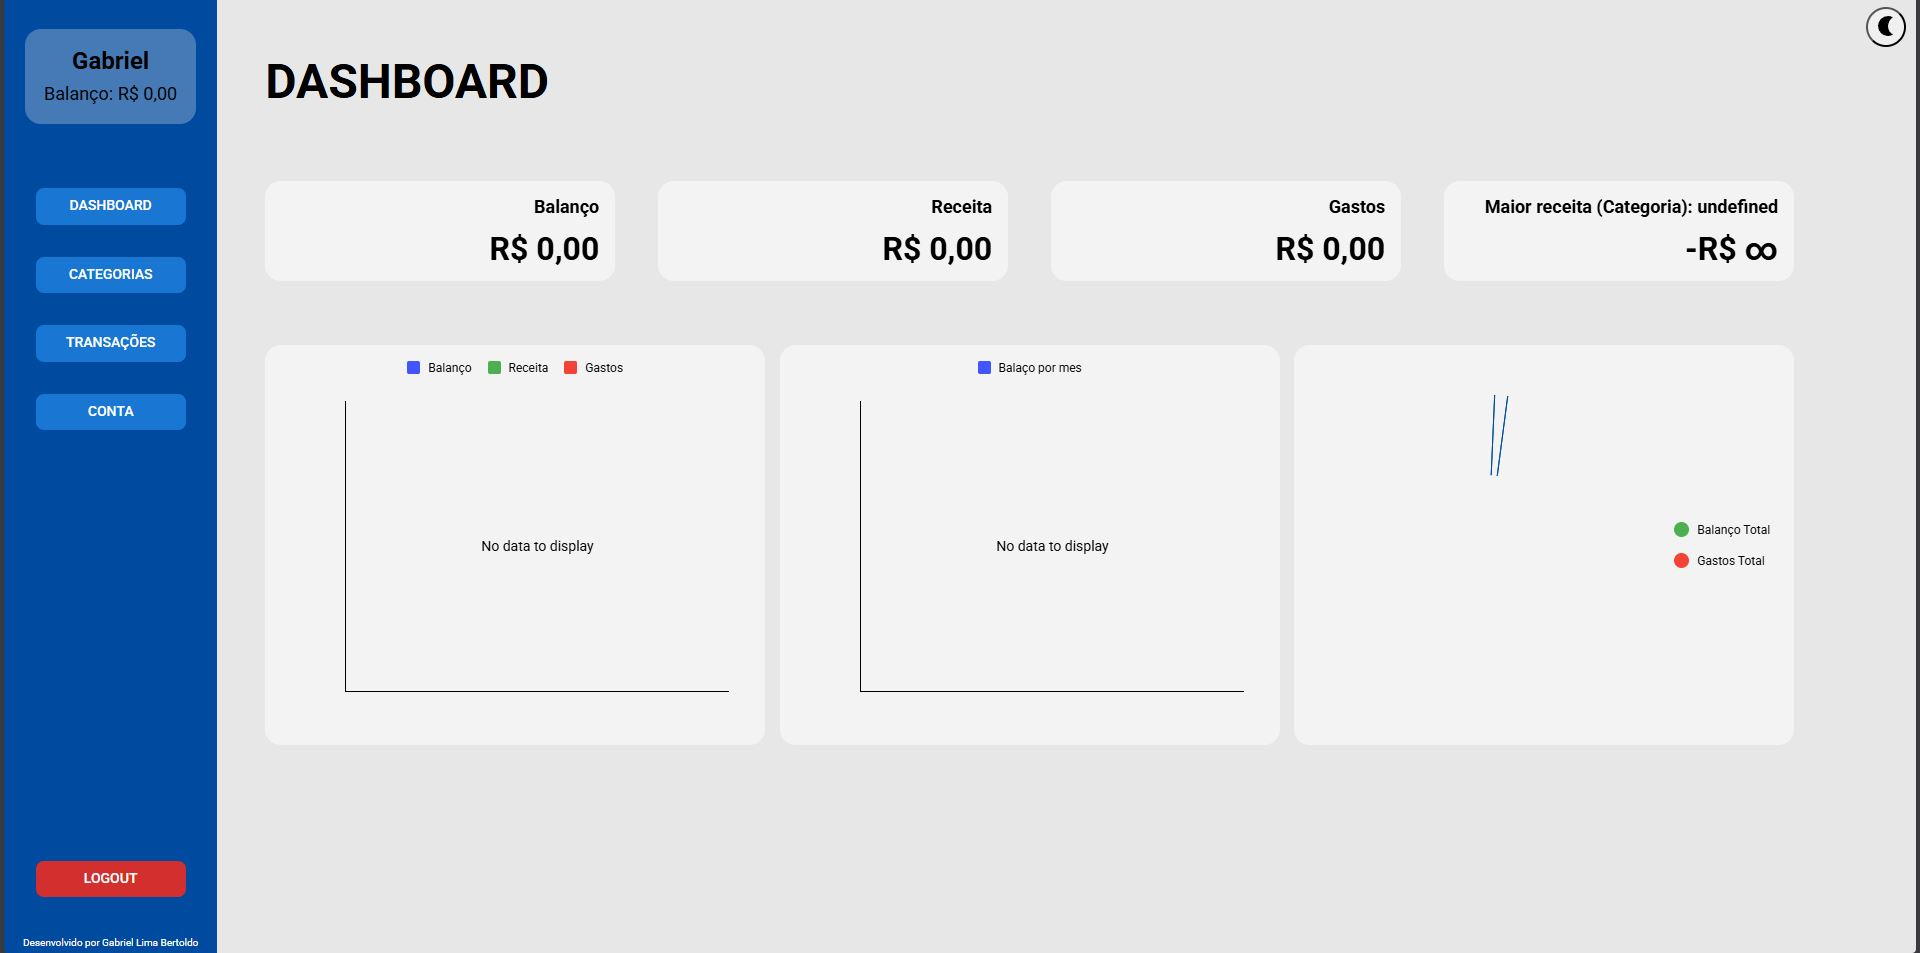
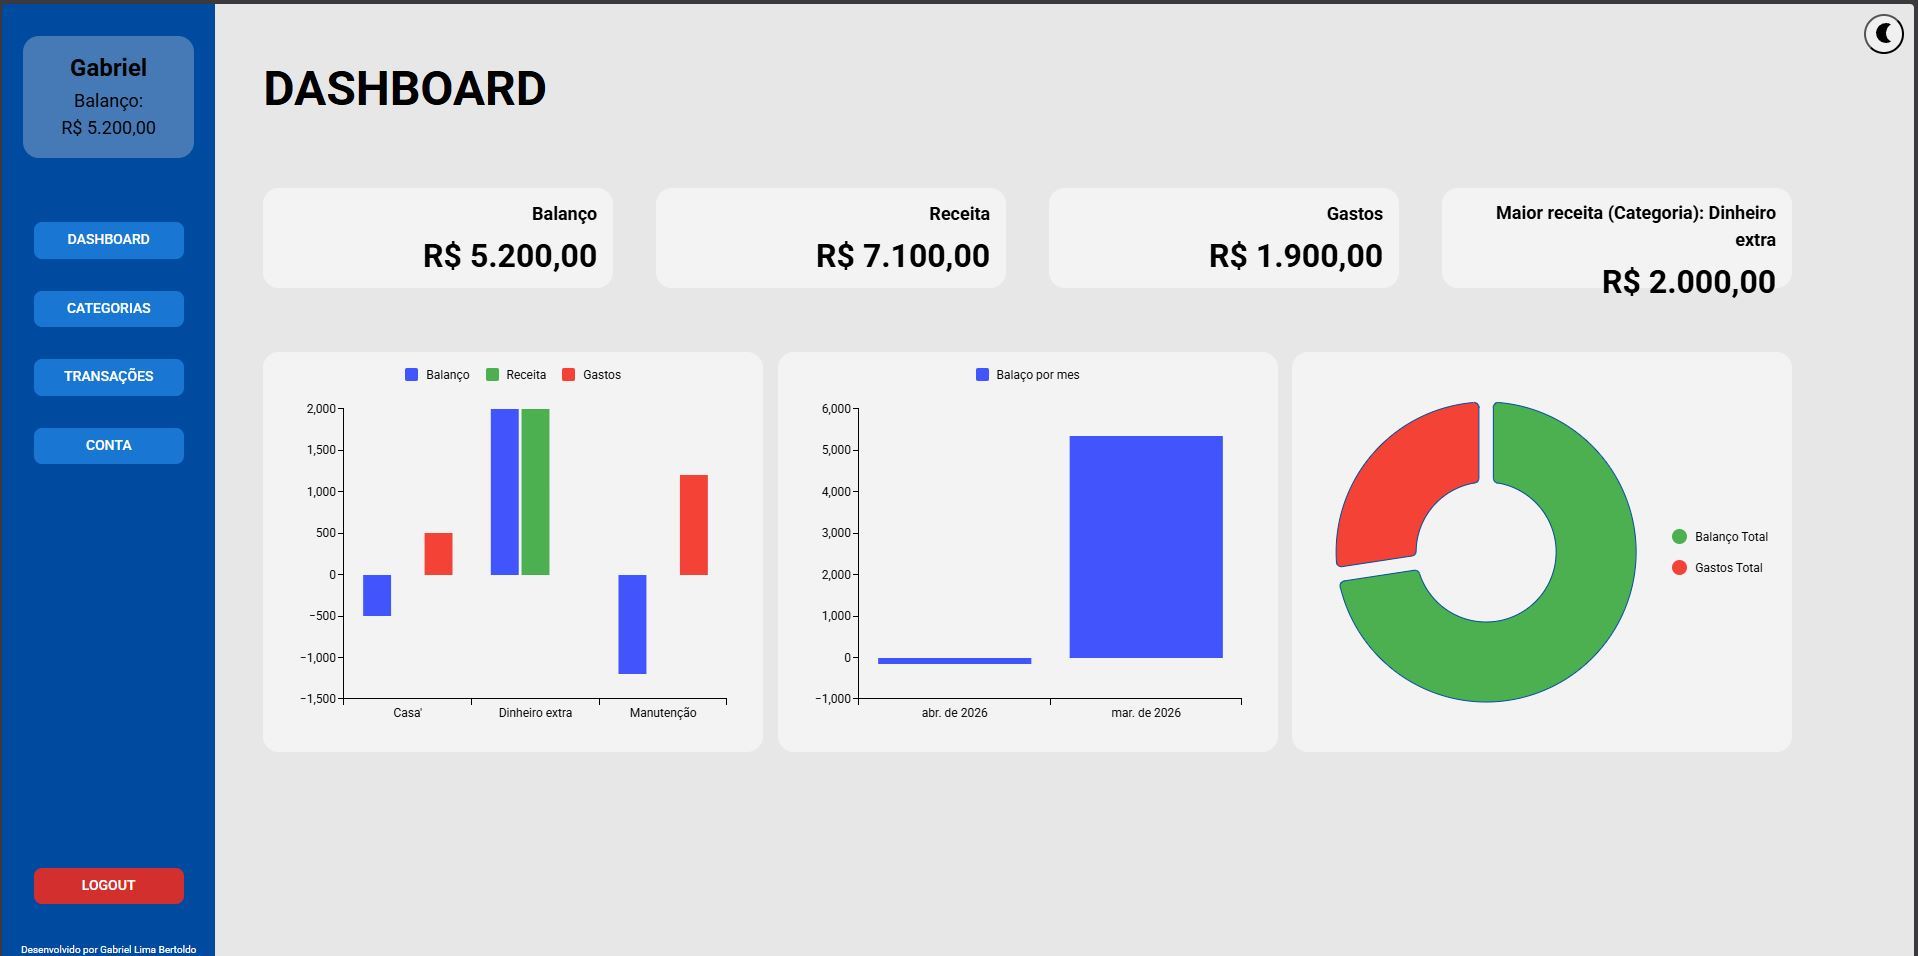
Documenting

diff --git a/README.md b/README.md
@@ -79,3 +79,19 @@ O projeto utiliza:
 As credenciais não estão versionadas e devem ser configuradas via User Secrets ou variáveis de ambiente.
 ```
 
+### Dashboard
+![Dashboard](docs/dashboard.JPG)
+
+### Transações
+![Transações](docs/transações.JPG)
+
+### Categories
+![Categories](docs/categories.JPG)
+
+### Opções Conta
+![Opções Conta](docs/conta.JPG)
+
+### Dark Mode
+![Dark Mode](docs/darkmode.JPG)
+
+